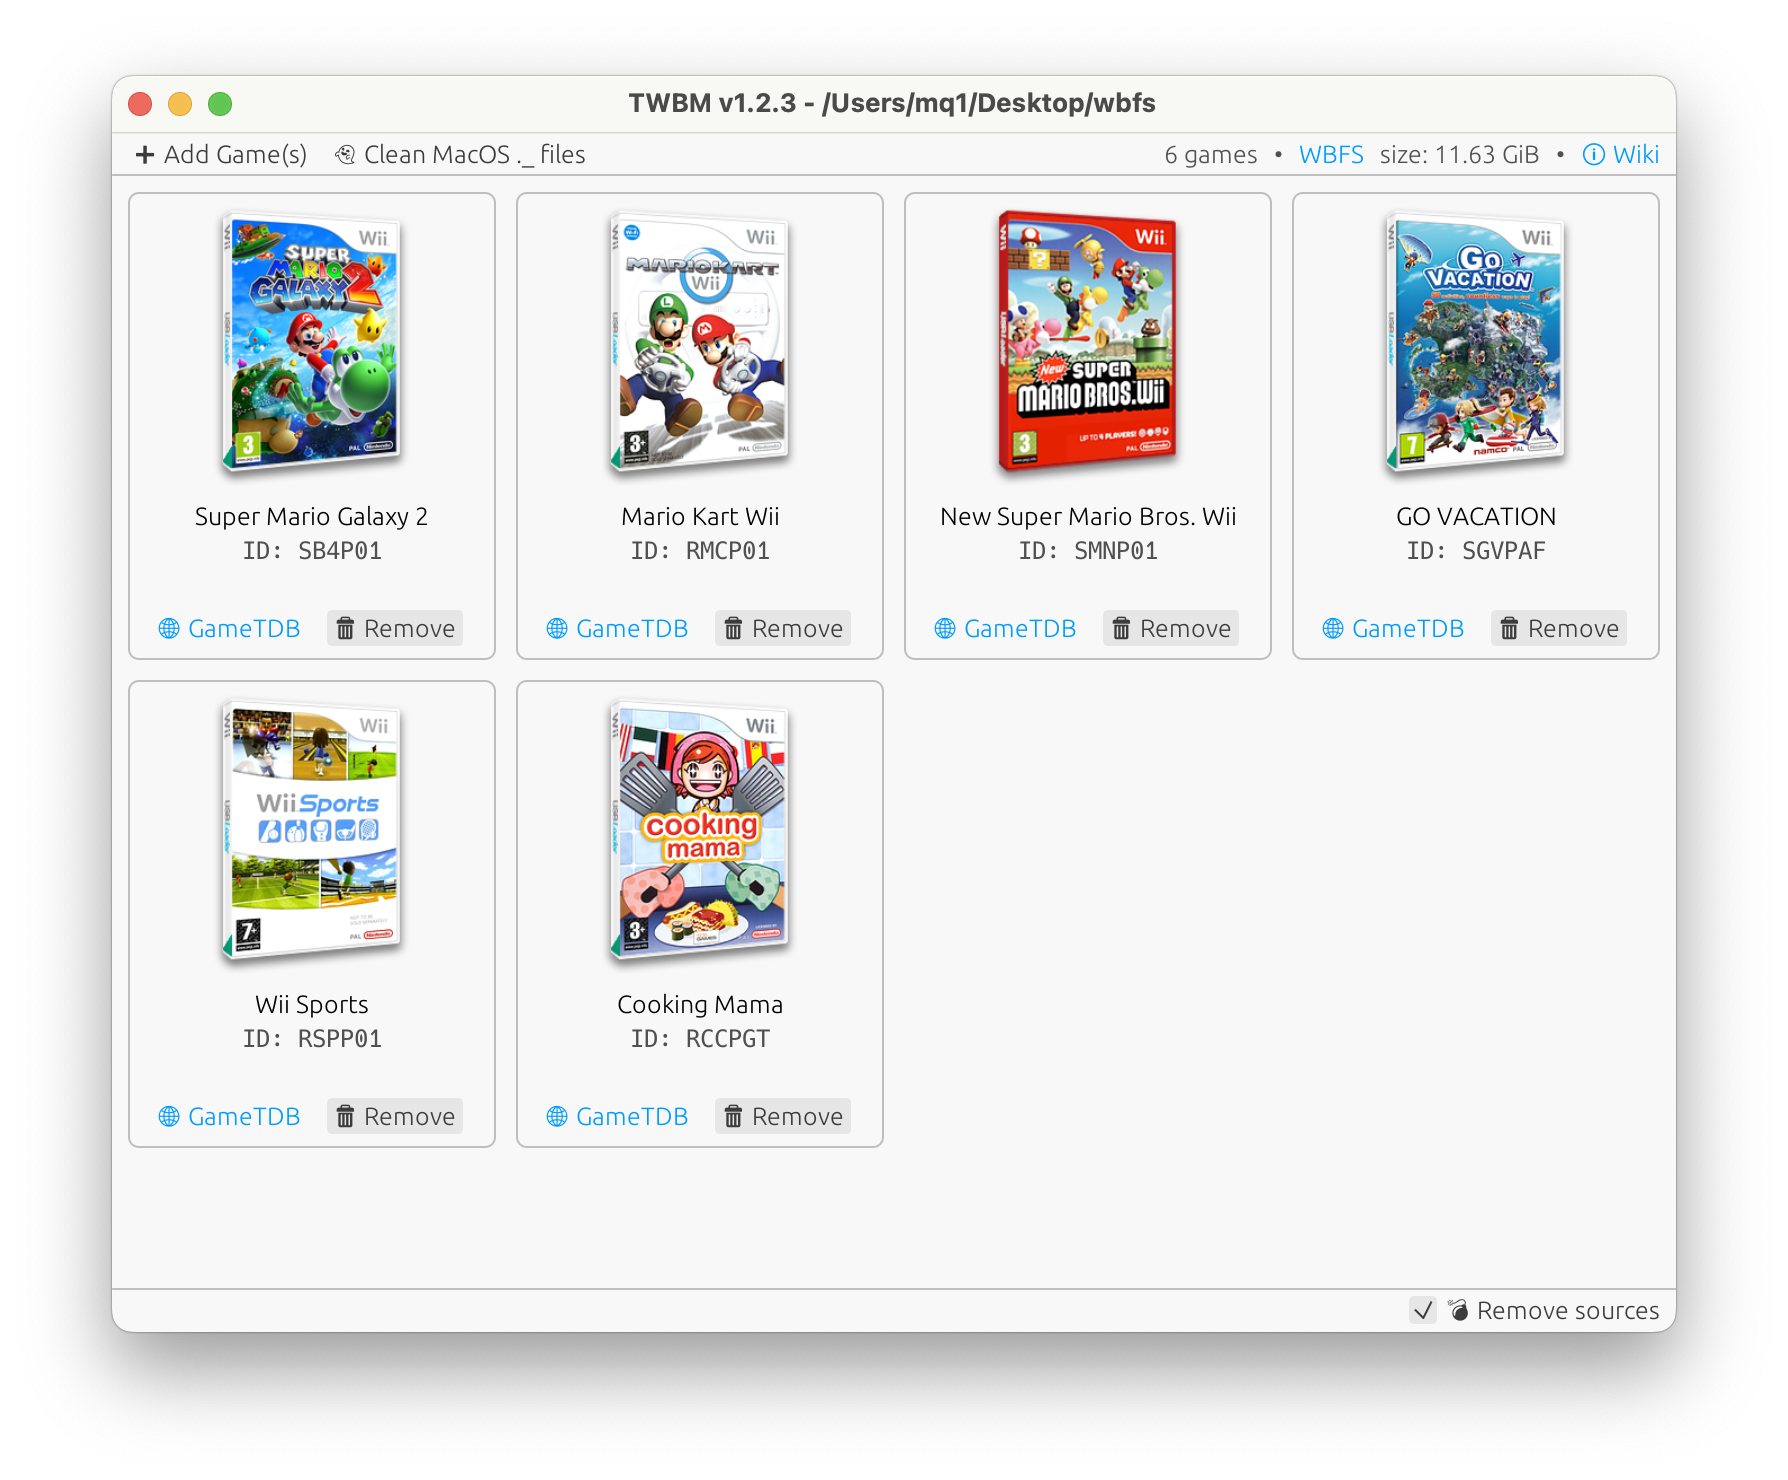
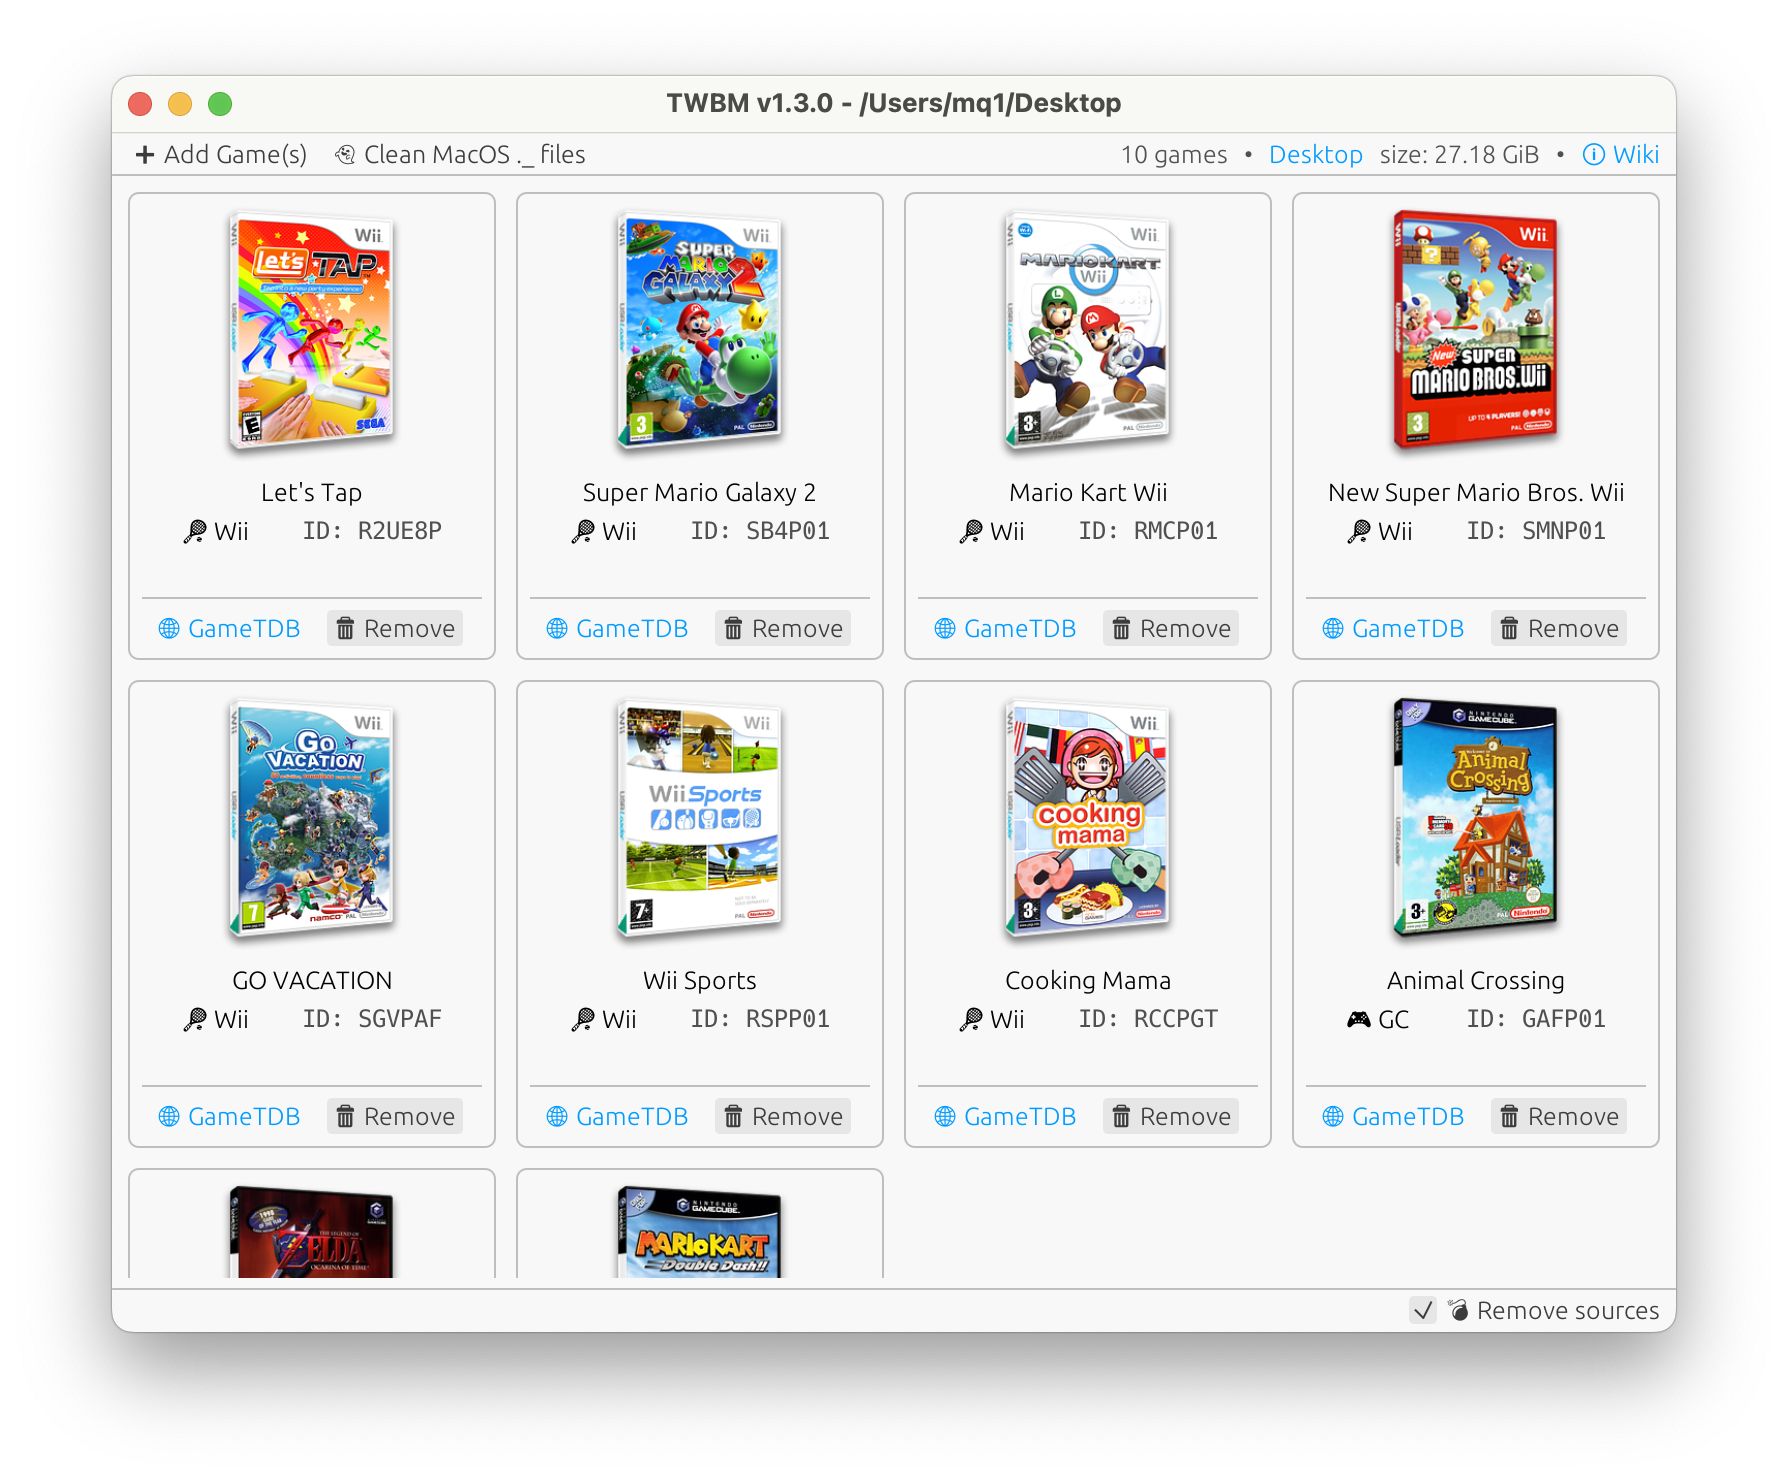
style: Styling

diff --git a/src/components/game_grid.rs b/src/components/game_grid.rs
@@ -2,7 +2,7 @@
 // SPDX-License-Identifier: GPL-2.0-only
 
 use crate::{app::App, error_handling::show_anyhow_error, game::Game};
-use eframe::egui::{self, Image, RichText, scroll_area::ScrollBarVisibility};
+use eframe::egui::{self, Image, RichText};
 
 const CARD_SIZE: egui::Vec2 = egui::vec2(170.0, 220.0);
 const GRID_SPACING: egui::Vec2 = egui::vec2(10.0, 10.0);
@@ -10,29 +10,27 @@ const GRID_SPACING: egui::Vec2 = egui::vec2(10.0, 10.0);
 pub fn ui_game_grid(ui: &mut egui::Ui, app: &mut App) {
     let mut to_remove = None;
 
-    egui::ScrollArea::vertical()
-        .scroll_bar_visibility(ScrollBarVisibility::AlwaysVisible)
-        .show(ui, |ui| {
-            // expand horizontally
-            ui.set_min_width(ui.available_width());
+    egui::ScrollArea::vertical().show(ui, |ui| {
+        // expand horizontally
+        ui.set_min_width(ui.available_width());
 
-            let num_columns =
-                (ui.available_width() / (CARD_SIZE.x + GRID_SPACING.x * 2.)).max(1.) as usize;
+        let num_columns =
+            (ui.available_width() / (CARD_SIZE.x + GRID_SPACING.x * 2.)).max(1.) as usize;
 
-            egui::Grid::new("game_grid")
-                .spacing(GRID_SPACING)
-                .show(ui, |ui| {
-                    for (i, game) in app.games.iter().enumerate() {
-                        if ui_game_card(ui, game) {
-                            to_remove = Some(game.clone());
-                        }
-
-                        if (i + 1) % num_columns == 0 {
-                            ui.end_row();
-                        }
+        egui::Grid::new("game_grid")
+            .spacing(GRID_SPACING)
+            .show(ui, |ui| {
+                for (i, game) in app.games.iter().enumerate() {
+                    if ui_game_card(ui, game) {
+                        to_remove = Some(game.clone());
                     }
-                });
-        });
+
+                    if (i + 1) % num_columns == 0 {
+                        ui.end_row();
+                    }
+                }
+            });
+    });
 
     if let Some(game) = to_remove {
         if let Err(e) = game.remove() {
@@ -82,6 +80,7 @@ fn ui_game_card(ui: &mut egui::Ui, game: &Game) -> bool {
                     ui.add_space(5.);
                     remove_clicked = ui.button("🗑 Remove").clicked();
                 });
+                ui.separator();
             });
         });
     });
